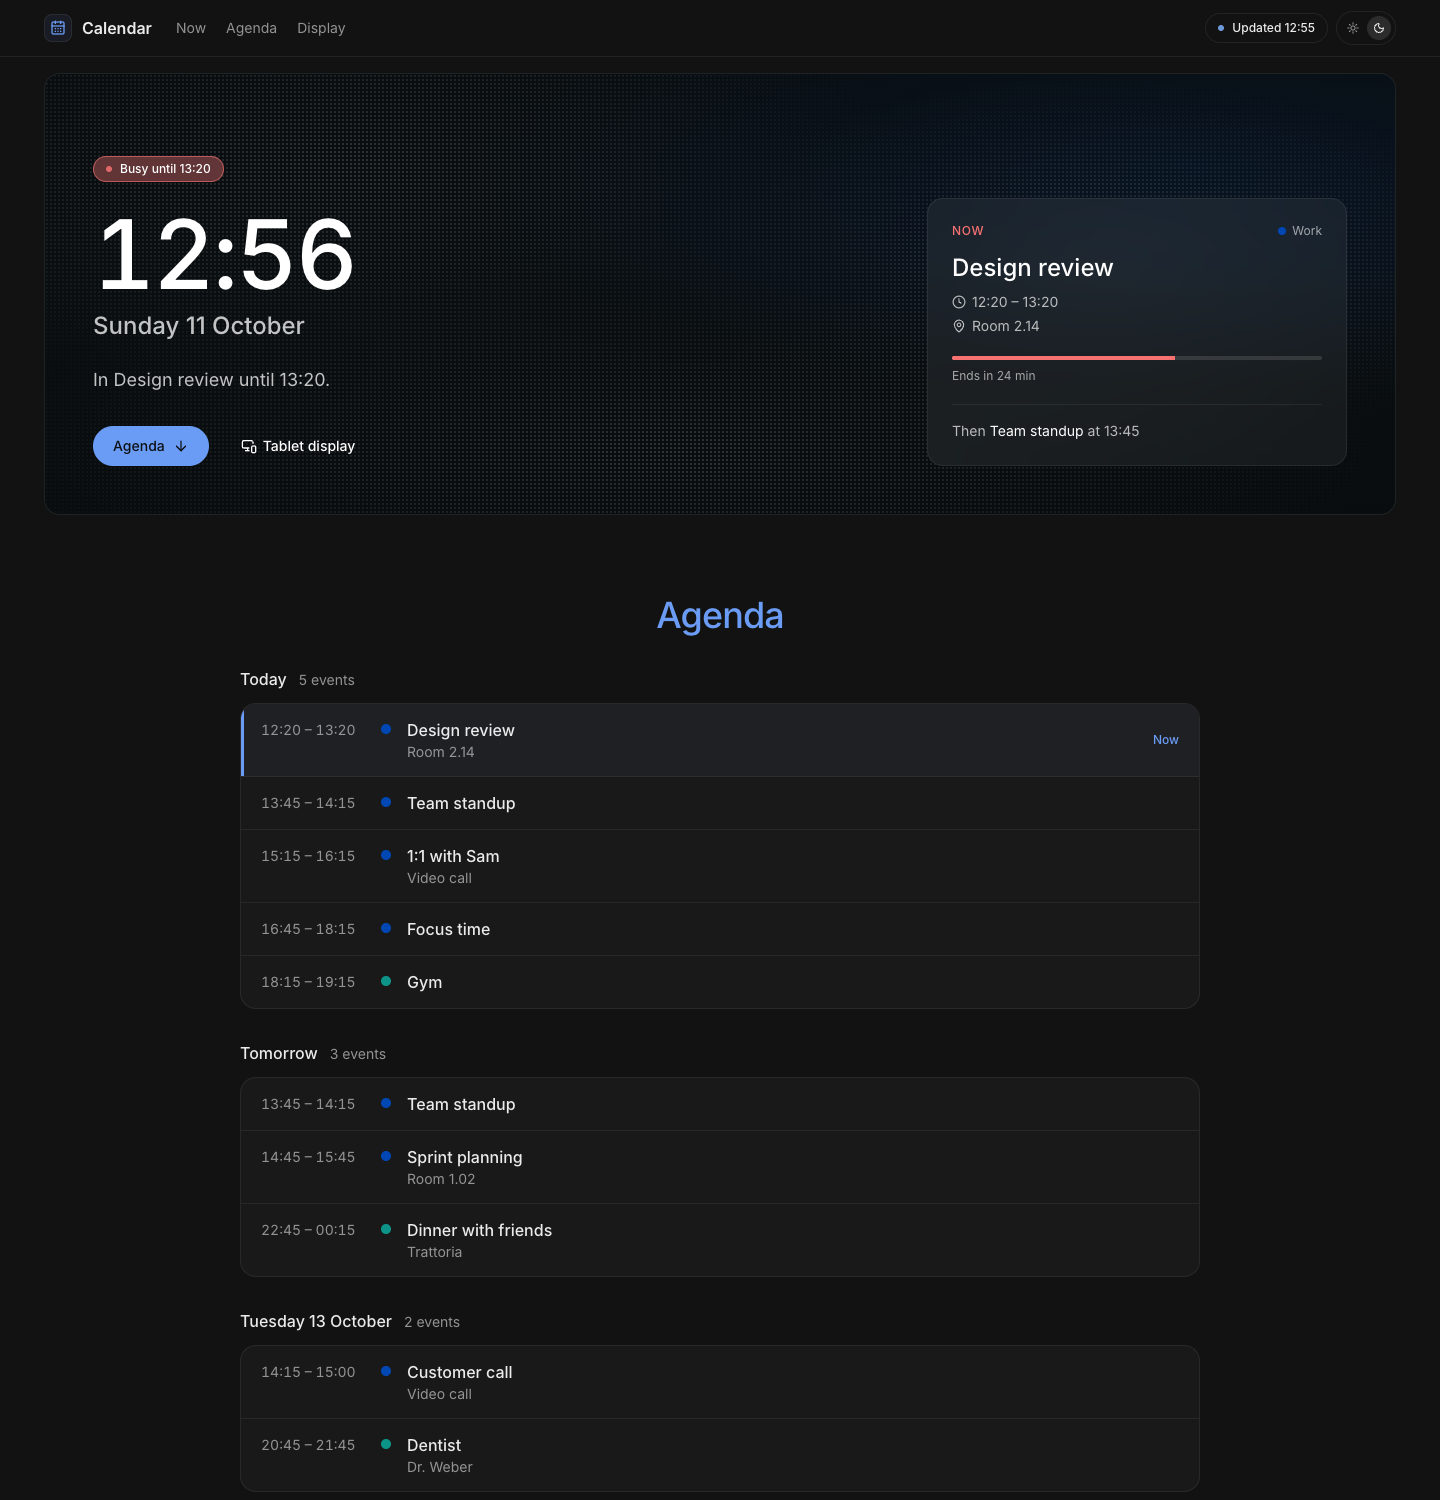
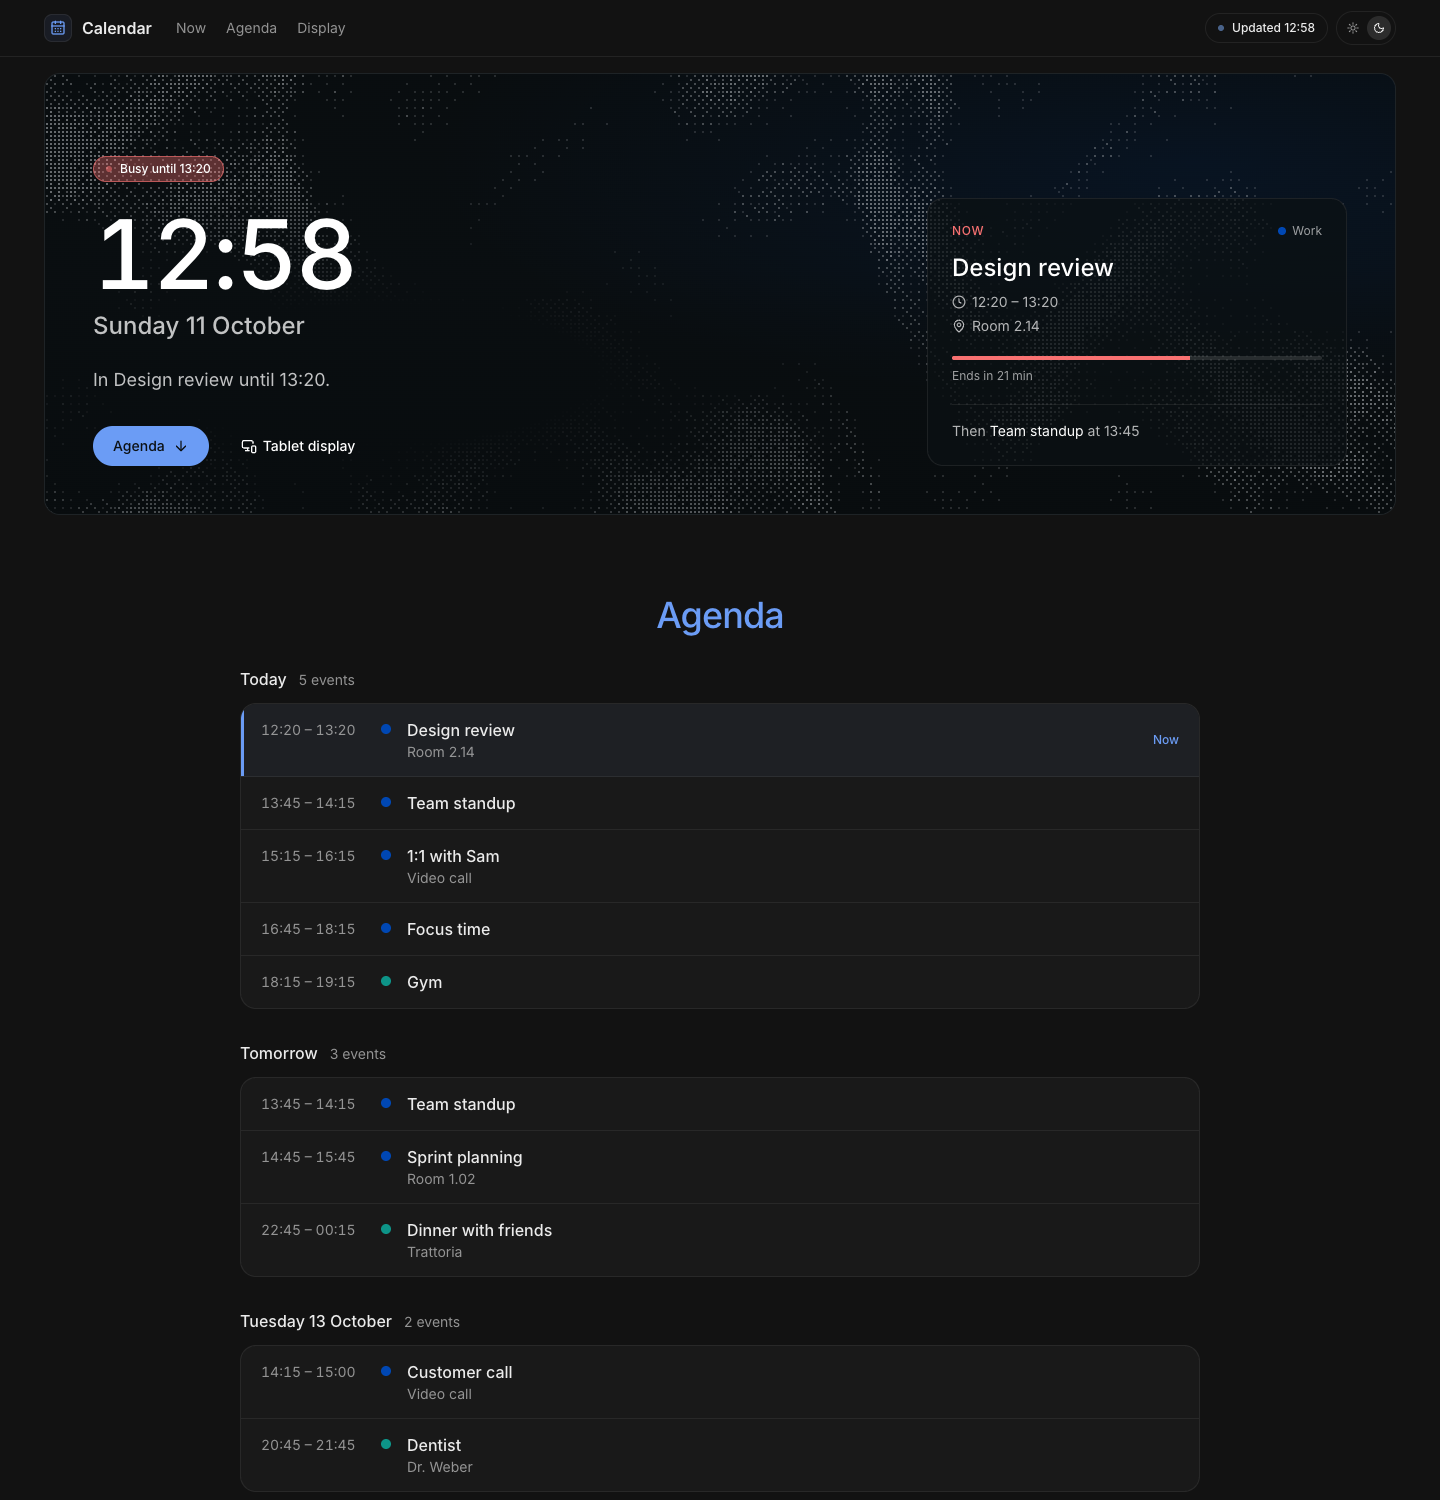
screenshots with the live dither, now card: + opaque background

diff --git a/components/Dashboard.tsx b/components/Dashboard.tsx
@@ -136,7 +136,7 @@ function headline(s: Status, f: F, today: string) {
 // the dark card in the hero: what is on now, or what is next
 export function Spotlight({ status, now, f, today }: { status: Status; now: number; f: F; today: string }) {
   const e = status.kind === "busy" ? status.current : status.next;
-  const card = "rounded-2xl border border-white/10 bg-white/5 p-6 text-white backdrop-blur-md";
+  const card = "rounded-2xl border border-white/10 bg-[#0b1013]/75 p-6 text-white backdrop-blur-md";
   if (!e) return <div className={`${card} text-white/75`}>No upcoming events.</div>;
 
   const running = status.kind === "busy";

diff --git a/README.md b/README.md
@@ -14,7 +14,7 @@ A single-user calendar display for any CalDAV server, inspired by [spacepad.io](
 
 <img src="pictures/display-portrait.png" alt="Tablet display, portrait" width="420">
 
-The screenshots use demo calendars.
+The screenshots use demo calendars. The dot field in the background is animated and follows the cursor.
 
 ## Features
 
